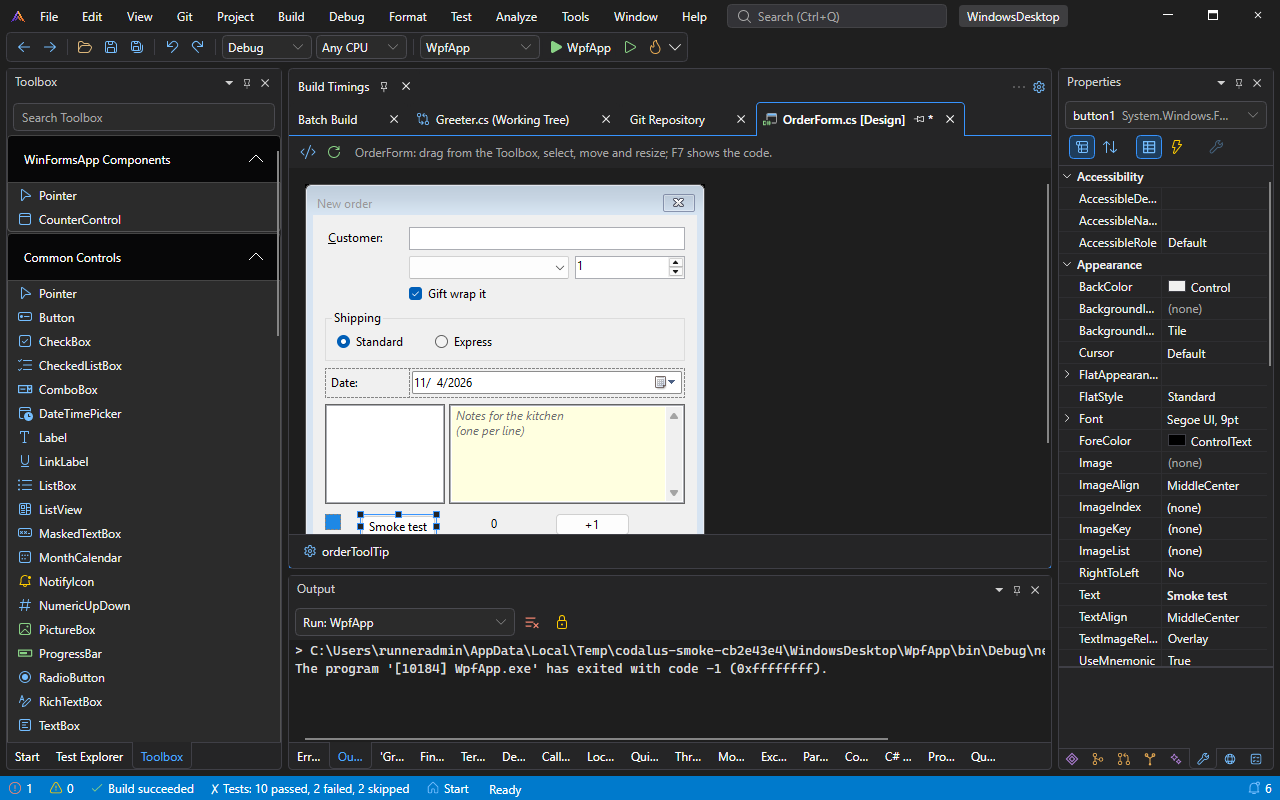
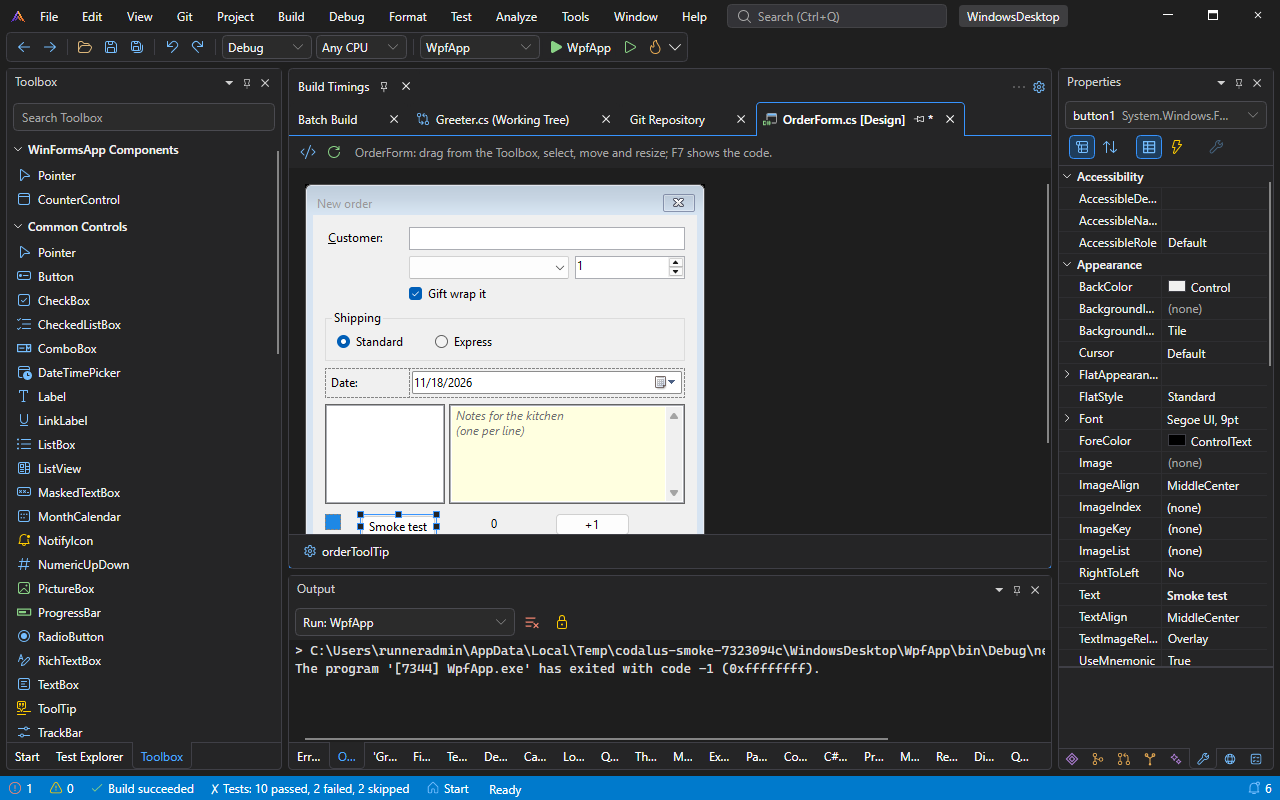
M65: the website's Windows Forms picture with the Toolbox's classic headers; a macOS job with no runner in the ledger
winforms.png from #462's smoke run (44349874341). PR #464's macOS tests were
never given a runner (44353067839): the ledger's no-runner row.

diff --git a/docs/ci-flakes.md b/docs/ci-flakes.md
@@ -241,7 +241,7 @@ about 45 failed jobs, 30 distinct failures, of which only a handful were the pul
 | `smoke (macos-latest)`: "The action 'End-to-end smoke test of the published app' has timed out after 40 minutes", in `shell.commandSweep`, the last step, which was still running commands | macOS smoke, `develop`'s dry run on beca8644 (the 0.13.0 cut's head), 2026-11-14; its other jobs were cancelled with it | 43617802812 | A slow runner on a smoke with little room left. The steps before the sweep took 28.5 minutes against 23.5 in `develop`'s run before (43587382786), and every heavy step was slower, none alone (`blazor.browserHotReload` 49 s → 95 s, `dotnet.older` 35 s → 70 s, `data.efMigrations` 53 s → 67 s); the one new step, `ai.headless`, took 5 s. That run's sweep took 715 s, so the step ended at 35.4 of its 40 minutes: a runner 15% slower runs out. PR runs pass in 25 to 36 minutes **The sweep's own slowness, found (2026-11-17):** it isn't the runner. In `develop`'s run 43914513384, which passed, the macOS sweep took 722 s against 238 on Linux and 356 on Windows for the same 1,021 passing entry points, and nothing stalled the UI thread (`stallMs` near 0). A key binding's entry point does almost nothing but five `Task.Delay(20)` after the command (the overlays' close loop): 105 ms at the median on Linux (the five waits), 171 on Windows (its 15.6 ms timer), 532 on macOS, so each 20 ms wait took about 100 ms there; every entry point pays the same, so the whole sweep is three times as long. **It isn't App Nap:** #432 held an `NSProcessInfo` activity (user initiated, latency critical) for the smoke's run and measured the waits: in its run 44031325117 (attempt 2) a 20 ms wait on the UI thread still took 99 ms at the median on macOS (165 at the 90th percentile) against 20 on Linux and 32 on Windows, and the sweep 717 s. The activity was taken out again (#441). Not known yet: whether the .NET timer fires late on the macOS runner or the UI thread is woken late for the continuation (Avalonia's macOS dispatcher). | None of ours was slow, so the limit stays (raised, it would hide the next hang), and the next dry run decides the cut. Open: the full macOS smoke has about 4 minutes of room; `TODO(issue)`: give the sweep a job of its own or shorten its waits, as the test shards were rebalanced (row 'Test (shell-1)' above) **Diagnostic:** the sweep's report says how late its waits ran (`wait20Ms` in `command-sweep.json`, a `[sweep]` line in the log), and splits it: a 20 ms timer on the thread pool (`timer20Ms`) and a job posted to the UI thread from another thread (`postMs`), once per entry point. The next macOS smoke says which half is late; the limit stays. Open. **The split (run 44073370973, #441):** on macOS a 20 ms timer on the thread pool took 101 ms at the median too, while a job posted to the UI thread ran at once (0 ms; 6 at the 90th percentile): the .NET runtime's timer is late, not Avalonia's dispatcher, and the same split on Linux (20, 0) and Windows (31, 0). A whole process's timers late by about 80 ms looked like macOS's timer coalescing at a latency QoS tier above 0. **Not the QoS tier either (#446):** its run 44124561770 ran the app under `taskpolicy -l 0 -t 0`, the latency and throughput tiers of an app in its user's sight, and a 20 ms timer on the thread pool still took 99 ms at the median (166 at the 90th percentile), a 20 ms wait on the UI thread 103, and the sweep 722 s; the change was taken out again. Open: why the .NET timer fires about 80 ms late on the macOS runner isn't known yet; the limit stays. |
 | The runner died: "No space left on device" writing its own log, about 5 minutes into the test step, with no log or artifacts left; next run, the disk guard ended the tests at 4 GB free | Ubuntu `others`, PR #268's runs (the Hot Reload capability; nothing that writes much) | 41357428702, 41365055187 | Infrastructure: some ubuntu-latest jobs get a runner with a 72 GB disk (a "Hosted Compute Agent" on AWS, image 20261018.96.1, `/dev/mapper/cow-root`) instead of the usual 145 GB (`/dev/root`, image 20261025.353.1). Restore and build left 6 GB free, before any test ran (the guard's first sample, in the test step's first second), and the shard needs more: on 145 GB it ends with 75 GB used. The listed folders (home, workspace, temp) held 7 GB: the rest is the image. The first run's runner had the same symptom at the same point; its log was lost. | `.github/actions/setup` removes toolchains the repository doesn't use (GHC, CodeQL, Swift, Julia, the Azure CLI, Miniconda: about 15 GB) on a Linux runner with less than 40 GB free, and says how much it got. `eng/ci-test.sh` watches the free disk on Linux and macOS: below 20 GB it logs the largest folders (`[disk]`, `disk.txt`), below 5 GB it ends the tests, so the step fails with an annotation and the runner still uploads. If a small runner fills up again, the guard's log says by how much. |
 | `test (macos-latest, shell-2)` cancelled with no runner, no steps and no log, so `ci` read "gate, test, smoke: success abandoned success" | macOS shell-2, PR #275; macOS shell-1 and debug-codalus, PR #277's second run, and debug-codalus again in its re-run | 41461888189, 41466954670 (attempts 1 and 2) | Infrastructure: the job was queued at 14:33 UTC, never assigned a runner (`runner_name` empty, 0 steps), and GitHub cancelled it at 16:13, 100 minutes later; every other job of the run, the other macOS ones included, had a runner and passed. Nothing of ours ran. It repeated that afternoon: 41466954670's two jobs, queued at 15:02, were cancelled at 17:02 and 17:12 with `runner_id` 0, and in the re-run of the failed jobs `debug-codalus` again at 17:52, 20 minutes after it was queued. The same run's macOS `others` waited from 15:02 to 17:11 for its runner. Several pull requests' runs, a benchmarks dispatch and two scratch benchmark workflows used macOS runners from 12:40 on. | None: the PR's next run stands in for it. It repeated, so: look at GitHub's status for macOS runners and the account's concurrent macOS job limit, and at how many macOS jobs our runs queue at once (each pipeline run queues five: four test shards and smoke). |
-| macOS jobs cancelled with no runner, no steps and no log, so `ci` read "gate, test, smoke: success abandoned success" (or "cancelled") | macOS shell-2, PR #275; macOS shell-2, others, debug-codalus and smoke, PR #279; macOS debug-codalus, PR #293; macOS others, PR #298 (queued 21:29 UTC, cancelled by GitHub at 22:31; passed on its one re-run) | 41461888189; 41502391209 (attempt 2: four jobs), 41515750429 (three jobs); 41635300177; 41722113539 | Infrastructure: the job was queued at 14:33 UTC, never assigned a runner (`runner_name` empty, 0 steps), and GitHub cancelled it at 16:13, 100 minutes later; every other job of the run, the other macOS ones included, had a runner and passed. Nothing of ours ran. Again on PR #279, twice, after exactly 15 minutes in the queue: attempt 2 of 41502391209 queued its macOS jobs at 19:29:11 UTC and GitHub cancelled the four still without a runner at 19:44:14; 41515750429 queued at 20:04 and three were cancelled at 20:19:14, while the run's other two macOS jobs got runners and passed. Nothing of ours ran in any of them, and no step of the workflow cancels a queued job. Again on PR #293: macOS debug-codalus was queued at 12:34 UTC and cancelled at 17:53 with no runner and no steps, after every other job of the run had passed. Ours in part: GitHub runs five macOS jobs at a time for the account, and every run asked for five (four test shards and smoke, about 138 macOS runner-minutes in 41722113539), so one run took every macOS runner and a few pull requests pushed together queued theirs for hours (seven runs started between 19:01 and 19:24 UTC on 2026-11-03). How long GitHub lets a job wait before cancelling it varied (15 minutes to five hours) and isn't ours. | Fewer macOS jobs (2026-11-04, ADR 0028): macOS runs its four test shards one after another in one job, and macOS smoke runs on `develop` and `master` only, so a pull request's run asks for one macOS job instead of five (12 jobs instead of 19). If a macOS job is still cancelled unrun, note the run here with how many macOS jobs were queued then. **It was, with nothing of ours queued** (41855543644, PR #300's second run, the first with the new layout): its one macOS job, `test (macos-latest, all)`, was queued at 15:14:03 UTC and cancelled at 15:29:05 with `runner_id` 0, exactly 15 minutes later, while it was the only macOS job, and the run the only one, in the repository (the run before it, 41849511374, had got its macOS runner at once 36 minutes earlier). **And again** (41858492576, PR #300's third run, queued 15:32:18, cancelled 15:47:20, during GitHub's Actions incident of 16:05 to 17:01 UTC), and twice more after that incident was resolved (41873926871: 17:04:39 to 17:19:42, and its re-run of the failed jobs, 17:55:14 to 18:10:16), each time the only macOS job in the repository, on an account with no other repository running macOS jobs and no usage limit (a public repository). **The cause, from GitHub's own annotations on the cancelled job:** "Due to capacity constraints, jobs targeting macOS arm64 runners may experience longer queue times" and "The job was not acquired by Runner of type hosted even after multiple attempts" (with an "Internal server error"); `ci` reads such a job's result as `abandoned`, not `cancelled`. So it is GitHub's macOS arm64 (`macos-latest`) capacity, not this repository's queue: fewer macOS jobs per run make a run less likely to wait for one, but no layout gets one when there is none. The maintainer's decision (2026-11-04): an abandoned macOS job keeps failing `ci` (no automatic re-request, no pass on a pull request); it is re-run or merged by hand. The job's annotations are where to look first next time. **Again on 2026-11-12, twice in half an hour, and this time partly ours:** the nightly of `develop` (43245666590) lost `smoke (macos-latest)`, queued at 15:37:16 UTC and failed by GitHub at 16:05:34 with the same two annotations, which stopped the run and published nothing; and a manual dry run with benchmarks (43245449152) lost `test (macos-latest, all)` the same way (15:13:35 to 15:41:38). Three runs were asking for macOS runners in those minutes: that dry run (test, smoke and benchmarks: three macOS jobs), PR #333's run (one) and the nightly (test, smoke, packages and update: four). The dry run was started beside the pull request's run of the same tree, which made the queue longer: a manual run goes when nothing else is running. Not re-run: the next merge to `develop` starts the nightly again. **Again on 2026-11-13, with `ci:full` on a pull request:** PR #352's run (43451684758), labeled `ci:full`, asked for two macOS jobs (test and smoke, the full scope since ADR 0028's 2026-11-13 update); `smoke (macos-latest)` was queued at 15:22:30 UTC and failed by GitHub at 15:58:12 with no runner and no steps ("The job was not acquired by Runner of type hosted even after multiple attempts"), while its macOS test job got a runner. Asking for macOS runners then: that run (two), and `develop`'s runs of 15:01, 15:22 and 15:23 (four each: test, smoke, packages and update; each cancelled by the next, the last at its first failure, a Windows test, at 15:54). Not re-run: the pull request's next push tests it without the label (Linux), its tests having passed on Linux and Windows and its Shell shards on macOS in that run. |
+| macOS jobs cancelled with no runner, no steps and no log, so `ci` read "gate, test, smoke: success abandoned success" (or "cancelled") | macOS shell-2, PR #275; macOS shell-2, others, debug-codalus and smoke, PR #279; macOS debug-codalus, PR #293; macOS others, PR #298 (queued 21:29 UTC, cancelled by GitHub at 22:31; passed on its one re-run); macOS `all`, PR #464 (2026-11-18, GitHub's notice: "Due to capacity constraints, jobs targeting macOS arm64 runners may experience longer queue times") | 41461888189; 41502391209 (attempt 2: four jobs), 41515750429 (three jobs); 41635300177; 41722113539; 44353067839 ("The job was not acquired by Runner of type hosted even after multiple attempts", no runner and no steps; re-run once, then replaced by the next push's run) | Infrastructure: the job was queued at 14:33 UTC, never assigned a runner (`runner_name` empty, 0 steps), and GitHub cancelled it at 16:13, 100 minutes later; every other job of the run, the other macOS ones included, had a runner and passed. Nothing of ours ran. Again on PR #279, twice, after exactly 15 minutes in the queue: attempt 2 of 41502391209 queued its macOS jobs at 19:29:11 UTC and GitHub cancelled the four still without a runner at 19:44:14; 41515750429 queued at 20:04 and three were cancelled at 20:19:14, while the run's other two macOS jobs got runners and passed. Nothing of ours ran in any of them, and no step of the workflow cancels a queued job. Again on PR #293: macOS debug-codalus was queued at 12:34 UTC and cancelled at 17:53 with no runner and no steps, after every other job of the run had passed. Ours in part: GitHub runs five macOS jobs at a time for the account, and every run asked for five (four test shards and smoke, about 138 macOS runner-minutes in 41722113539), so one run took every macOS runner and a few pull requests pushed together queued theirs for hours (seven runs started between 19:01 and 19:24 UTC on 2026-11-03). How long GitHub lets a job wait before cancelling it varied (15 minutes to five hours) and isn't ours. | Fewer macOS jobs (2026-11-04, ADR 0028): macOS runs its four test shards one after another in one job, and macOS smoke runs on `develop` and `master` only, so a pull request's run asks for one macOS job instead of five (12 jobs instead of 19). If a macOS job is still cancelled unrun, note the run here with how many macOS jobs were queued then. **It was, with nothing of ours queued** (41855543644, PR #300's second run, the first with the new layout): its one macOS job, `test (macos-latest, all)`, was queued at 15:14:03 UTC and cancelled at 15:29:05 with `runner_id` 0, exactly 15 minutes later, while it was the only macOS job, and the run the only one, in the repository (the run before it, 41849511374, had got its macOS runner at once 36 minutes earlier). **And again** (41858492576, PR #300's third run, queued 15:32:18, cancelled 15:47:20, during GitHub's Actions incident of 16:05 to 17:01 UTC), and twice more after that incident was resolved (41873926871: 17:04:39 to 17:19:42, and its re-run of the failed jobs, 17:55:14 to 18:10:16), each time the only macOS job in the repository, on an account with no other repository running macOS jobs and no usage limit (a public repository). **The cause, from GitHub's own annotations on the cancelled job:** "Due to capacity constraints, jobs targeting macOS arm64 runners may experience longer queue times" and "The job was not acquired by Runner of type hosted even after multiple attempts" (with an "Internal server error"); `ci` reads such a job's result as `abandoned`, not `cancelled`. So it is GitHub's macOS arm64 (`macos-latest`) capacity, not this repository's queue: fewer macOS jobs per run make a run less likely to wait for one, but no layout gets one when there is none. The maintainer's decision (2026-11-04): an abandoned macOS job keeps failing `ci` (no automatic re-request, no pass on a pull request); it is re-run or merged by hand. The job's annotations are where to look first next time. **Again on 2026-11-12, twice in half an hour, and this time partly ours:** the nightly of `develop` (43245666590) lost `smoke (macos-latest)`, queued at 15:37:16 UTC and failed by GitHub at 16:05:34 with the same two annotations, which stopped the run and published nothing; and a manual dry run with benchmarks (43245449152) lost `test (macos-latest, all)` the same way (15:13:35 to 15:41:38). Three runs were asking for macOS runners in those minutes: that dry run (test, smoke and benchmarks: three macOS jobs), PR #333's run (one) and the nightly (test, smoke, packages and update: four). The dry run was started beside the pull request's run of the same tree, which made the queue longer: a manual run goes when nothing else is running. Not re-run: the next merge to `develop` starts the nightly again. **Again on 2026-11-13, with `ci:full` on a pull request:** PR #352's run (43451684758), labeled `ci:full`, asked for two macOS jobs (test and smoke, the full scope since ADR 0028's 2026-11-13 update); `smoke (macos-latest)` was queued at 15:22:30 UTC and failed by GitHub at 15:58:12 with no runner and no steps ("The job was not acquired by Runner of type hosted even after multiple attempts"), while its macOS test job got a runner. Asking for macOS runners then: that run (two), and `develop`'s runs of 15:01, 15:22 and 15:23 (four each: test, smoke, packages and update; each cancelled by the next, the last at its first failure, a Windows test, at 15:54). Not re-run: the pull request's next push tests it without the label (Linux), its tests having passed on Linux and Windows and its Shell shards on macOS in that run. |
 | Every job but `ci` dropped unrun: `plan` and `gate` (ubuntu-latest) got no runner, no check run and no log, so `ci` read "gate, test, smoke: abandoned skipped skipped" about 1.5 minutes into the run | Two pushes to develop, 2026-11-09 (merges of PR #316 at 18:07 UTC and PR #317 at 18:25) | 42671256412, 42673892006 | Infrastructure: GitHub's critical "Incident with Actions and Checks API" (githubstatus.com, 18:12 to 18:59 UTC, mitigated at 18:43: "elevated errors affecting GitHub Actions and the Checks API"). Neither merge touched `.github`; develop's run on the same workflow at 16:25 (42654535675) and both pull requests' runs, which ended at 18:07 and 18:25, passed. Nothing of ours ran: `ci`, the one job that got a runner, only read the others' results. | None: re-run once the incident is resolved. A `ci` that reads "abandoned" for `gate` within minutes, with no `gate` check run, is GitHub not placing the job: check githubstatus.com before anything else. |
 | `CompoundDebugTests.Debug_a_web_page_opens_an_html_file_in_the_browser_and_stops_in_its_script`: "The page didn't stop", vscode-js-debug's `Unable to launch browser: "Could not attach to main target"` launching headless Chrome, then the test's 600 s | Windows `debug-codalus`, PR #279 (an HTTP Response layout change, nothing on the browser debugger's path), both attempts | 41502391209 (attempts 1 and 2, 19:01 and 19:48 UTC, two runners) | Not known yet. The same job passed the test at 18:17 on develop (41496705476, 3d506651, which the PR's merge ref is based on), on the same image (win25-vs2026 20261030.294); the Debug Console has only js-debug's error. A Chrome updated on the runner after boot is one guess. | The Debug Console's first line names the browser's version on Windows (`Browser.Version`), and `eng/ci-test.sh` sets `CODALUS_JSDEBUG_TRACE` to the shard's results folder, so the next failure uploads js-debug's own log of the launch. **Still open (2026-11-17):** Not seen again in the 180 pipeline runs from 2026-11-13 to 2026-11-17; passed 8 of 8 locally on Windows under load that comes and goes. The diagnostics stay for the next failure. |
 | The required `ci` job never started: "queued" for over 3 hours with no runner while the run closed as "failure", every test and smoke job green | PR #325's run (the external agents' versions) | 43085908051 (attempts 1 and 2) | GitHub's, not the repository's: the `ci` job sums up the others and runs no test; it got no runner, so the run ended without it. Re-running the failed jobs was refused ("This workflow run cannot be retried", HTTP 403), and re-running the `ci` job alone ended the attempt in `startup_failure`. | None in the repository. A fresh run on the next push, here bringing in develop's new commits, settles it. |
